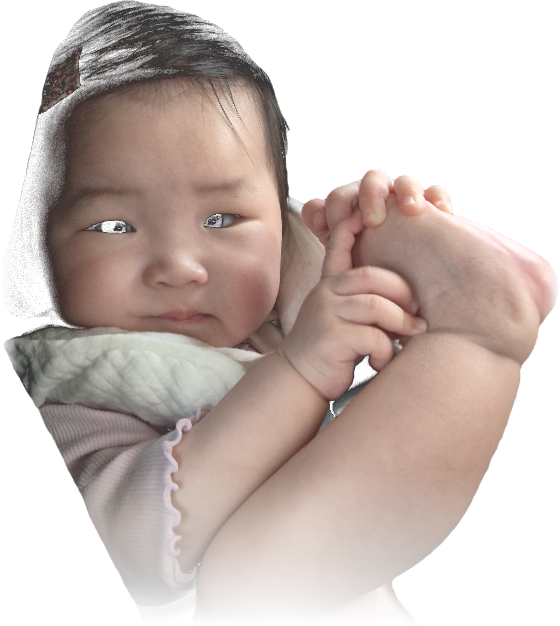
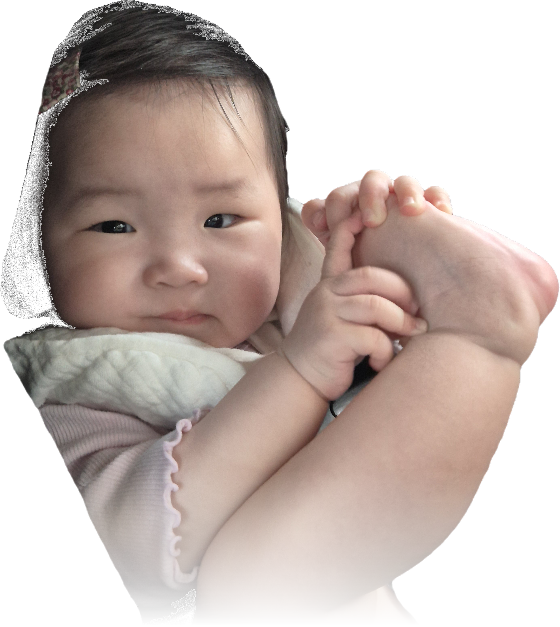
갤러리 사진 직접 표시 + hero 사진 누끼 수정
- BFS flood fill로 머리카락·눈동자 보존하며 배경 제거
- 갤러리: photo1/photo2.jpg 그리드로 직접 표시, 클릭 시 라이트박스
- 하단 'Google Photos에서 더 보기' 버튼으로 전체 앨범 연결

diff --git a/index.html b/index.html
@@ -122,26 +122,41 @@
                 <div class="card-divider"><span class="divider-heart">♡</span></div>
                 <p class="gallery-lead">소중한 순간들을 함께 나눠요 ♡</p>
 
+                <!-- Photo grid -->
+                <div class="photo-grid" id="photoGrid">
+                    <div class="photo-item" onclick="openLightbox('photos/photo1.jpg')">
+                        <img src="photos/photo1.jpg" alt="김지유" loading="lazy">
+                    </div>
+                    <div class="photo-item" onclick="openLightbox('photos/photo2.jpg')">
+                        <img src="photos/photo2.jpg" alt="김지유" loading="lazy">
+                    </div>
+                </div>
+
+                <!-- View more → Google Photos -->
                 <a href="https://photos.app.goo.gl/9USdjabY9yuVsLr99"
-                   target="_blank" rel="noopener" class="gp-card">
-                    <div class="gp-icon-wrap">
-                        <svg viewBox="0 0 48 48" width="38" height="38">
-                            <path d="M24 22.4h18.4A18.4 18.4 0 0 0 24 5.6v16.8z" fill="#4285F4"/>
-                            <path d="M24 22.4v18.4A18.4 18.4 0 0 0 42.4 24H24v-1.6z" fill="#34A853"/>
-                            <path d="M24 22.4H5.6A18.4 18.4 0 0 0 24 40.8V22.4z" fill="#FBBC05"/>
-                            <path d="M24 22.4V5.6A18.4 18.4 0 0 0 5.6 22.4H24z" fill="#EA4335"/>
-                        </svg>
-                    </div>
-                    <div class="gp-text">
-                        <p class="gp-title">Google Photos 공유 앨범</p>
-                        <p class="gp-desc">사진을 보거나 추가할 수 있어요</p>
-                    </div>
-                    <svg class="gp-arrow" viewBox="0 0 24 24" fill="none" stroke="currentColor" stroke-width="2" width="20" height="20">
+                   target="_blank" rel="noopener" class="gp-more-btn">
+                    <svg viewBox="0 0 48 48" width="20" height="20" style="flex-shrink:0">
+                        <path d="M24 22.4h18.4A18.4 18.4 0 0 0 24 5.6v16.8z" fill="#4285F4"/>
+                        <path d="M24 22.4v18.4A18.4 18.4 0 0 0 42.4 24H24v-1.6z" fill="#34A853"/>
+                        <path d="M24 22.4H5.6A18.4 18.4 0 0 0 24 40.8V22.4z" fill="#FBBC05"/>
+                        <path d="M24 22.4V5.6A18.4 18.4 0 0 0 5.6 22.4H24z" fill="#EA4335"/>
+                    </svg>
+                    Google Photos에서 더 보기
+                    <svg viewBox="0 0 24 24" fill="none" stroke="currentColor" stroke-width="2" width="16" height="16" style="flex-shrink:0">
                         <path d="M5 12h14M12 5l7 7-7 7"/>
                     </svg>
                 </a>
             </div>
         </section>
+
+        <!-- Lightbox -->
+        <div class="lightbox" id="lightbox">
+            <div class="lightbox-bg" onclick="closeLightbox()"></div>
+            <div class="lightbox-body">
+                <button class="lb-close" onclick="closeLightbox()">✕</button>
+                <img id="lightboxImg" src="" alt="사진">
+            </div>
+        </div>
 
         <!-- 오시는길 -->
         <section id="location" class="section fade-in">
@@ -203,6 +218,18 @@
     </footer>
 
     <script>
+        // Lightbox
+        function openLightbox(src) {
+            document.getElementById('lightboxImg').src = src;
+            document.getElementById('lightbox').classList.add('active');
+            document.body.style.overflow = 'hidden';
+        }
+        function closeLightbox() {
+            document.getElementById('lightbox').classList.remove('active');
+            document.body.style.overflow = '';
+        }
+        document.addEventListener('keydown', e => { if (e.key === 'Escape') closeLightbox(); });
+
         // Smooth scroll
         document.querySelectorAll('a[href^="#"]').forEach(a => {
             a.addEventListener('click', e => {

diff --git a/style.css b/style.css
@@ -284,33 +284,67 @@ body {
 .info-value { font-size: 1.03rem; font-weight: 600; color: var(--text); }
 .info-sub   { font-size: 0.87rem; color: var(--text-mid); }
 
-/* ── GALLERY – Google Photos only ── */
+/* ── GALLERY ── */
 .gallery-lead {
     text-align: center;
     color: var(--text-mid);
     font-size: 0.93rem;
-    margin-bottom: 22px;
+    margin-bottom: 20px;
 }
 
-.gp-card {
-    display: flex; align-items: center; gap: 14px;
-    background: linear-gradient(135deg, #e8f4ff 0%, #f5f0ff 100%);
-    border: 1px solid #c2d8f8;
-    border-radius: 20px;
-    padding: 22px 20px;
+/* Photo grid */
+.photo-grid {
+    display: grid;
+    grid-template-columns: repeat(auto-fill, minmax(160px, 1fr));
+    gap: 12px;
+    margin-bottom: 20px;
+}
+
+.photo-item {
+    position: relative;
+    border-radius: 16px;
+    overflow: hidden;
+    aspect-ratio: 3 / 4;
+    box-shadow: 0 3px 16px var(--shadow), 0 1px 6px var(--shadow-pk);
+    cursor: pointer;
+    transition: transform 0.25s, box-shadow 0.25s;
+}
+.photo-item:hover {
+    transform: translateY(-5px);
+    box-shadow: 0 10px 28px var(--shadow-pk);
+}
+.photo-item img {
+    width: 100%; height: 100%;
+    object-fit: cover;
+    display: block;
+    transition: transform 0.35s;
+}
+.photo-item:hover img { transform: scale(1.06); }
+
+/* View more button */
+.gp-more-btn {
+    display: flex;
+    align-items: center;
+    justify-content: center;
+    gap: 10px;
+    width: 100%;
+    padding: 14px 20px;
+    background: linear-gradient(135deg, #e8f4ff, #f0f4ff);
+    border: 1.5px solid #c2d8f8;
+    border-radius: 16px;
+    color: #1a73e8;
+    font-size: 0.92rem;
+    font-weight: 500;
+    font-family: inherit;
     text-decoration: none;
-    transition: transform 0.2s, box-shadow 0.2s;
-    box-shadow: 0 3px 18px rgba(66, 133, 244, 0.09);
+    transition: background 0.2s, transform 0.15s, box-shadow 0.2s;
+    box-shadow: 0 2px 12px rgba(66, 133, 244, 0.1);
 }
-.gp-card:hover {
-    transform: translateY(-3px);
-    box-shadow: 0 8px 28px rgba(66, 133, 244, 0.16);
+.gp-more-btn:hover {
+    background: linear-gradient(135deg, #d8ecff, #e8eeff);
+    transform: translateY(-2px);
+    box-shadow: 0 6px 20px rgba(66, 133, 244, 0.18);
 }
-.gp-icon-wrap { flex-shrink: 0; }
-.gp-text { flex: 1; }
-.gp-title { font-size: 0.97rem; font-weight: 600; color: #1a73e8; margin-bottom: 3px; }
-.gp-desc  { font-size: 0.82rem; color: #5f6368; }
-.gp-arrow { color: #1a73e8; flex-shrink: 0; }
 
 /* ── LOCATION ── */
 .venue-box { text-align: center; margin-bottom: 20px; }
@@ -361,6 +395,15 @@ body {
 .footer-title { font-size: 0.9rem; font-weight: 500; letter-spacing: 0.09em; margin-bottom: 7px; }
 .footer-date  { font-size: 0.8rem; opacity: 0.5; letter-spacing: 0.24em; }
 
+/* ── LIGHTBOX ── */
+.lightbox { position: fixed; inset: 0; z-index: 1000; display: none; align-items: center; justify-content: center; }
+.lightbox.active { display: flex; }
+.lightbox-bg { position: absolute; inset: 0; background: rgba(0,0,0,0.9); }
+.lightbox-body { position: relative; z-index: 1; max-width: 92vw; max-height: 92vh; }
+.lightbox-body img { max-width: 100%; max-height: 90vh; display: block; border-radius: 12px; box-shadow: 0 4px 60px rgba(0,0,0,0.5); }
+.lb-close { position: absolute; top: -42px; right: 0; background: none; border: none; color: rgba(255,255,255,0.8); font-size: 1.3rem; cursor: pointer; padding: 4px 10px; transition: color 0.2s; }
+.lb-close:hover { color: #fff; }
+
 /* ── RESPONSIVE ── */
 @media (max-width: 600px) {
     .hero-content   { padding: 0 16px; }
@@ -372,5 +415,5 @@ body {
     .contact-grid   { grid-template-columns: 1fr; }
     .navbar a       { padding: 11px 11px; font-size: 0.82rem; }
     .map-wrap       { height: 260px; }
-    .gp-card        { gap: 10px; padding: 18px 14px; }
+    .photo-grid     { grid-template-columns: repeat(2, 1fr); gap: 10px; }
 }
